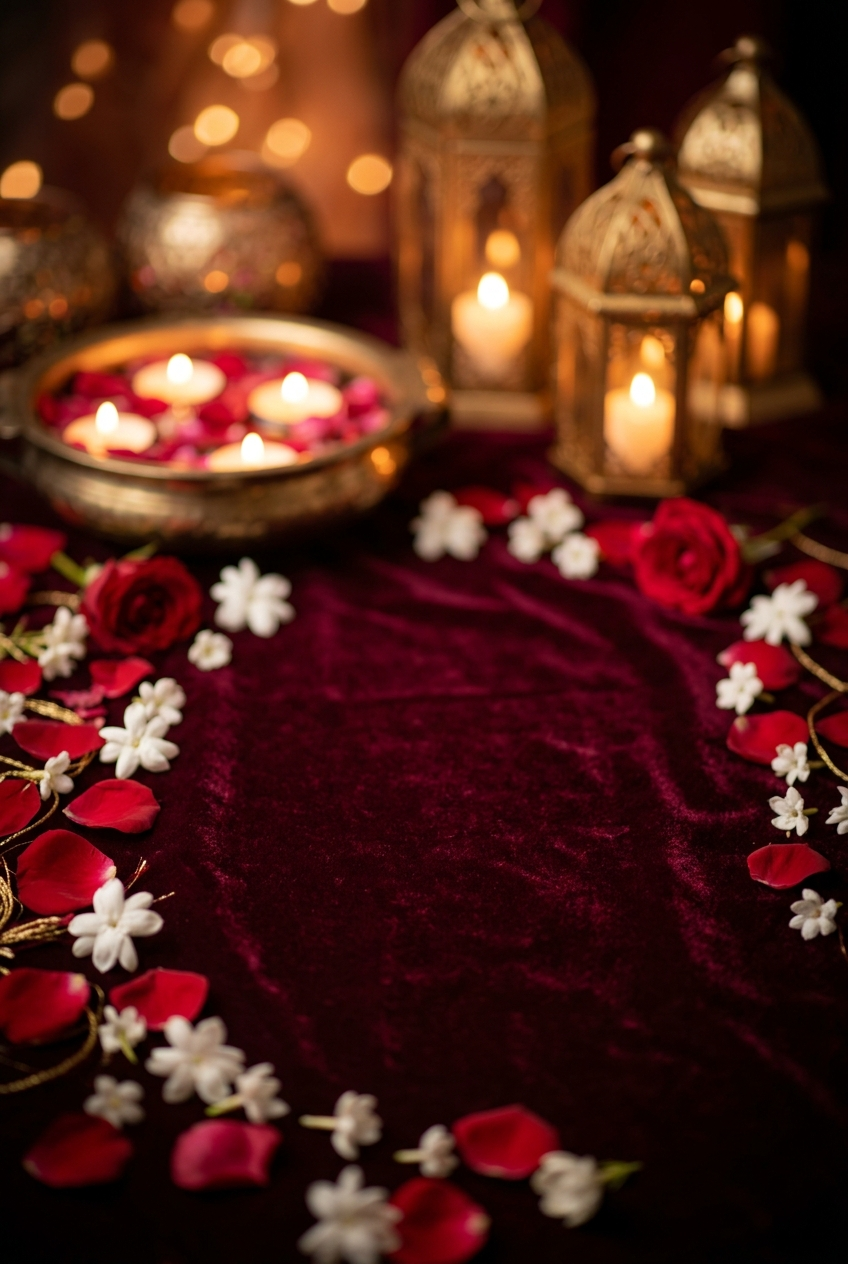
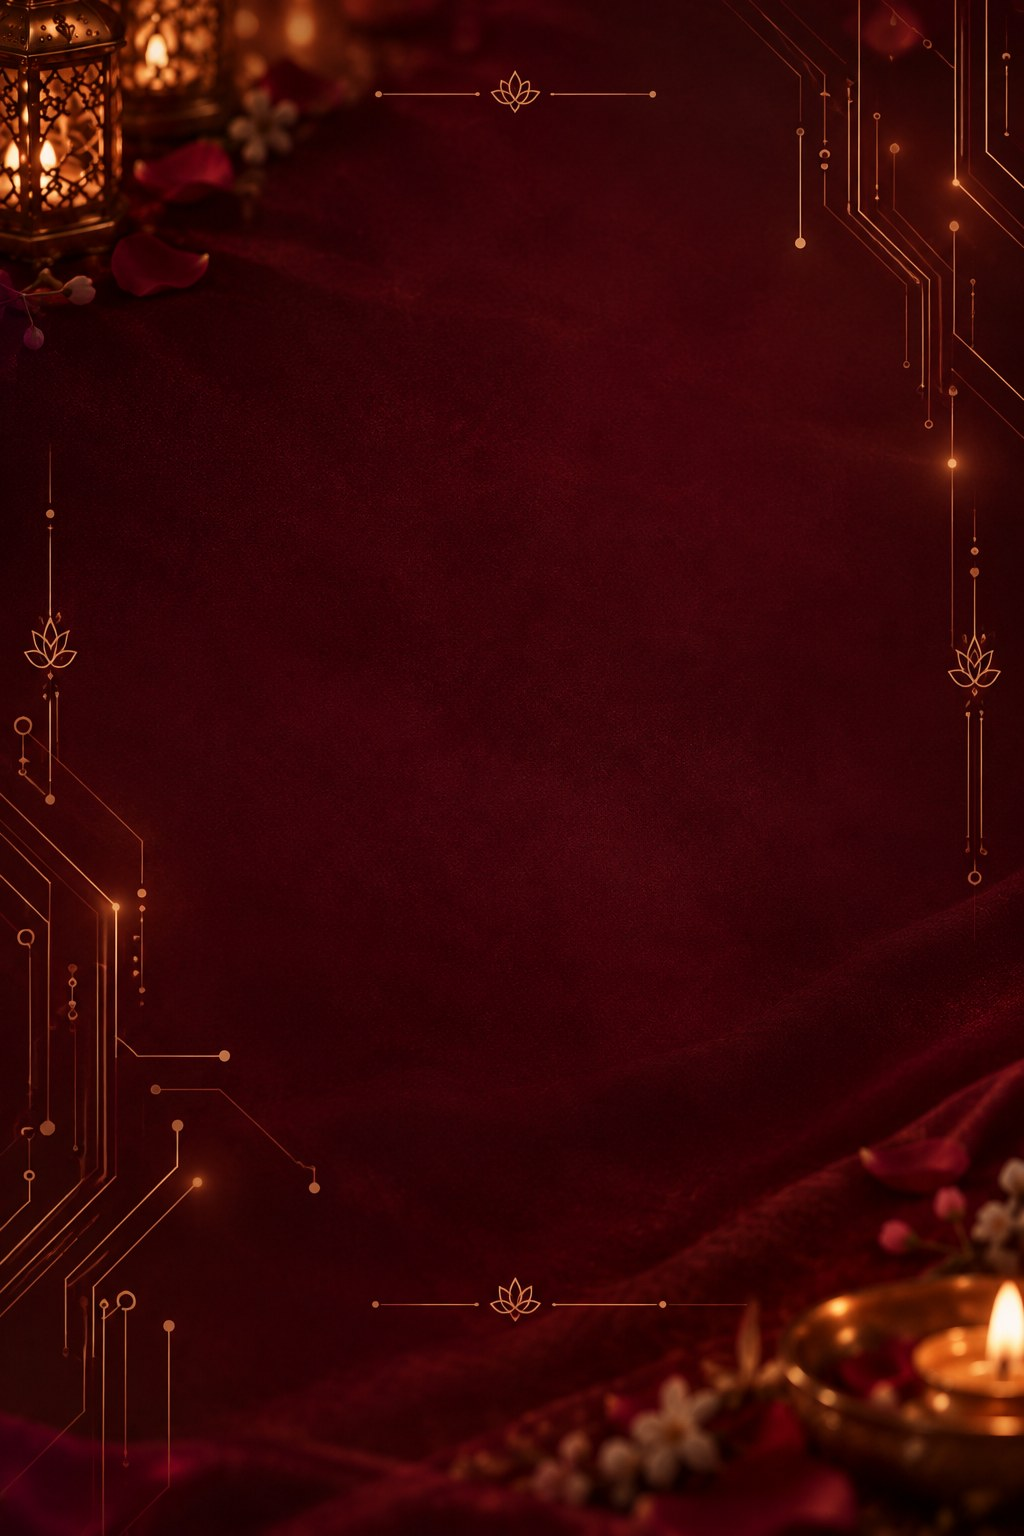
## Done (verified in real browser @390px) - **Page 1**: The background now uses your uploaded burgundy image as provided (lantern, diya, roses, corner gold-circuit fragments, lotus dividers). A **symmetric hexagon circuit frame** has been overlaid with Ganesha at top-centre, "Two Hearts One Journey"
### Next Action Items
- **Real Wedding Music**: Swap the placeholder track for your final instrumental once you upload it
- **Idle Shimmer**: Add a gentle shimmer effect to the gold circuit before tapping so the page feels "powered on"
- **Couple Monogram**: Weave a gold "S&V" monogram into the centre of the circuit heart
- **Signal Sound**: Add a soft rising "charge-up" tone as signals gather toward the title

I have tested these features to the best of my capabilities on a real browser. Please check and let me know if everything is functioning as expected or if you notice any issues that may require further investigation with comprehensive testing.

Potential improvement: Would you like me to add a gentle looping shimmer on the idle circuit so guests see a living, glowing board as soon as the page opens?

Emergent-Commit-Key: 00c04ac8af96177f793af560aca4b6e9966294a694e2767df4168c7af7c41bba

diff --git a/frontend/src/components/wedding/SignalBoard.jsx b/frontend/src/components/wedding/SignalBoard.jsx
@@ -1,40 +1,52 @@
 import React from "react";
 
 /*
- * Page 1 — flat antique-gold PCB that frames the invitation title.
- * When `live` is true, bright "signals" draw along every trace and gather
- * up toward the "Two Hearts One Journey" title (from below and above).
+ * Page 1 — symmetric antique-gold circuit frame that sits in the empty
+ * centre of the burgundy velvet background. On tap, bright "signals" draw
+ * along the feeder traces and gather UP to the "Two Hearts One Journey" title
+ * (from above and below).
  */
 
-// Feeder traces authored SOURCE -> TITLE so the draw animation travels toward the text.
-const LOWER = [
-  "M40 820 L40 600 L72 560 L72 470 L112 420 L132 362",
-  "M360 820 L360 600 L328 560 L328 470 L288 420 L268 362",
-  "M120 820 L120 630 L150 585 L150 470 L162 408 L166 362",
-  "M280 820 L280 630 L250 585 L250 470 L238 408 L234 362",
-  "M8 500 L60 500 L100 452 L140 400 L152 362",
-  "M392 500 L340 500 L300 452 L260 400 L248 362",
-  "M184 460 L184 410 L190 362",
-  "M216 460 L216 410 L210 362",
+// Animated feeders — authored source -> title so the draw travels toward the text.
+const FEEDERS = [
+  // top feeders (draw downward onto the upper bus, y=300)
+  "M200 100 L200 180 L184 300",
+  "M200 100 L200 180 L216 300",
+  "M165 118 L165 210 L148 240 L130 300",
+  "M235 118 L235 210 L252 240 L270 300",
+  "M126 138 L126 252 L108 300",
+  "M274 138 L274 252 L292 300",
+  // bottom feeders (draw upward onto the lower bus, y=560)
+  "M200 660 L200 620 L184 560",
+  "M200 660 L200 620 L216 560",
+  "M165 672 L165 612 L148 588 L130 560",
+  "M235 672 L235 612 L252 588 L270 560",
+  "M126 660 L126 600 L108 560",
+  "M274 660 L274 600 L292 560",
 ];
 
-const UPPER = [
-  "M70 40 L70 150 L108 200 L108 250 L150 300",
-  "M330 40 L330 150 L292 200 L292 250 L250 300",
-  "M160 46 L160 160 L184 210 L186 300",
-  "M240 46 L240 160 L216 210 L214 300",
+// Static hexagon frame + title bus bars.
+const FRAME = [
+  "M108 300 H292",
+  "M108 560 H292",
+  "M108 300 L58 352 L58 508 L108 560",
+  "M292 300 L342 352 L342 508 L292 560",
 ];
 
 const HEART =
-  "M200 540 C174 516 156 502 156 483 C156 470 167 461 179 461 C188 461 196 467 200 475 C204 467 212 461 221 461 C233 461 244 470 244 483 C244 502 226 516 200 540 Z";
+  "M200 512 C176 490 158 476 158 457 C158 445 169 436 181 436 C190 436 198 442 200 450 C202 442 210 436 219 436 C231 436 242 445 242 457 C242 476 224 490 200 512 Z";
 
 const PADS = [
-  [40, 818], [360, 818], [120, 818], [280, 818],
-  [8, 500], [392, 500],
-  [70, 42], [330, 42], [160, 48], [240, 48],
+  [200, 100], [165, 118], [235, 118], [126, 138], [274, 138],
+  [200, 660], [165, 672], [235, 672], [126, 660], [274, 660],
 ];
 
-const ALL = [...LOWER, ...UPPER];
+const NODES = [
+  [200, 300], [200, 560],
+  [108, 300], [292, 300], [108, 560], [292, 560],
+  [58, 352], [342, 352], [58, 508], [342, 508],
+  [58, 430], [342, 430],
+];
 
 export const SignalBoard = ({ live = false, className = "" }) => (
   <svg
@@ -44,13 +56,13 @@ export const SignalBoard = ({ live = false, className = "" }) => (
     aria-hidden="true"
   >
     <defs>
-      <linearGradient id="sb-gold" x1="0" y1="1" x2="0" y2="0">
+      <linearGradient id="sb-gold" x1="0" y1="0" x2="1" y2="1">
         <stop offset="0%" stopColor="#8a5a1f" />
         <stop offset="55%" stopColor="#c9923e" />
         <stop offset="100%" stopColor="#e9c678" />
       </linearGradient>
       <filter id="sb-glow" x="-60%" y="-60%" width="220%" height="220%">
-        <feGaussianBlur stdDeviation="2.4" result="b" />
+        <feGaussianBlur stdDeviation="2.2" result="b" />
         <feMerge>
           <feMergeNode in="b" />
           <feMergeNode in="SourceGraphic" />
@@ -58,49 +70,40 @@ export const SignalBoard = ({ live = false, className = "" }) => (
       </filter>
     </defs>
 
-    {/* dim base traces */}
-    <g
-      stroke="url(#sb-gold)"
-      strokeWidth="1.3"
-      fill="none"
-      opacity="0.5"
-      strokeLinecap="round"
-      strokeLinejoin="round"
-    >
-      {ALL.map((d, i) => (
+    {/* dim static frame */}
+    <g stroke="url(#sb-gold)" strokeWidth="1.3" fill="none" opacity="0.55" strokeLinecap="round" strokeLinejoin="round">
+      {FRAME.map((d, i) => (
+        <path key={`frame-${i}`} d={d} />
+      ))}
+    </g>
+
+    {/* dim base of the feeder traces */}
+    <g stroke="url(#sb-gold)" strokeWidth="1.1" fill="none" opacity="0.4" strokeLinecap="round" strokeLinejoin="round">
+      {FEEDERS.map((d, i) => (
         <path key={`base-${i}`} d={d} />
       ))}
-      <path d="M118 360 H282" />
-      <path d="M150 300 H250" />
     </g>
 
     {/* bright travelling signals that gather at the title */}
-    <g
-      stroke="#ffe9b8"
-      strokeWidth="2.3"
-      fill="none"
-      strokeLinecap="round"
-      strokeLinejoin="round"
-      filter="url(#sb-glow)"
-    >
-      {ALL.map((d, i) => (
+    <g stroke="#ffe9b8" strokeWidth="2.3" fill="none" strokeLinecap="round" strokeLinejoin="round" filter="url(#sb-glow)">
+      {FEEDERS.map((d, i) => (
         <path
           key={`pulse-${i}`}
           className="sb-pulse"
           d={d}
           pathLength="1"
-          style={{ animationDelay: `${(i % 8) * 70}ms` }}
+          style={{ animationDelay: `${(i % 6) * 80}ms` }}
         />
       ))}
     </g>
 
-    {/* title bus bars glow once signals arrive */}
-    <g stroke="#ffe3a6" strokeWidth="2.4" strokeLinecap="round" filter="url(#sb-glow)">
-      <path className="sb-bus" d="M118 360 H282" pathLength="1" />
-      <path className="sb-bus" d="M150 300 H250" pathLength="1" />
+    {/* bus bars glow once the signals arrive */}
+    <g stroke="#ffe3a6" strokeWidth="2.3" strokeLinecap="round" filter="url(#sb-glow)">
+      <path className="sb-bus" d="M108 300 H292" pathLength="1" />
+      <path className="sb-bus" d="M108 560 H292" pathLength="1" />
     </g>
 
-    {/* heart woven into the lower circuit */}
+    {/* heart woven into the lower frame */}
     <path
       className="sb-heart"
       d={HEART}
@@ -112,10 +115,17 @@ export const SignalBoard = ({ live = false, className = "" }) => (
       filter="url(#sb-glow)"
     />
 
+    {/* decorative nodes along the frame */}
+    <g fill="#e9c678" opacity="0.7">
+      {NODES.map(([cx, cy], i) => (
+        <circle key={`node-${i}`} cx={cx} cy={cy} r="2.6" />
+      ))}
+    </g>
+
     {/* connection pads at every signal source */}
     <g fill="#e9c678">
       {PADS.map(([cx, cy], i) => (
-        <circle key={`pad-${i}`} className="sb-pad" cx={cx} cy={cy} r="3" style={{ animationDelay: `${(i % 8) * 70}ms` }} />
+        <circle key={`pad-${i}`} className="sb-pad" cx={cx} cy={cy} r="3" style={{ animationDelay: `${(i % 6) * 80}ms` }} />
       ))}
     </g>
   </svg>

diff --git a/frontend/src/components/wedding/wedding.css b/frontend/src/components/wedding/wedding.css
@@ -16,7 +16,7 @@
 }
 
 .wc-page1 { position: absolute; inset: 0; background-size: cover; background-position: center; display: flex; align-items: center; justify-content: center; transform-origin: center 54%; will-change: transform, opacity, filter; }
-.wc-page1-vignette { position: absolute; inset: 0; pointer-events: none; background: radial-gradient(60% 45% at 50% 52%, rgba(59,7,16,0) 0%, rgba(42,5,12,0.35) 70%, rgba(30,3,9,0.7) 100%), radial-gradient(120% 90% at 50% 120%, rgba(232,154,58,0.14), transparent 55%); }
+.wc-page1-vignette { position: absolute; inset: 0; pointer-events: none; background: radial-gradient(70% 55% at 50% 50%, rgba(42,5,12,0) 55%, rgba(30,3,9,0.28) 100%); }
 .wc-trace-layer { position: absolute; inset: 0; width: 100%; height: 100%; pointer-events: none; }
 .wc-chip-stage { position: relative; z-index: 3; display: flex; flex-direction: column; align-items: center; transform: translateY(2vh); }
 
@@ -93,8 +93,9 @@
 .wc-tap-text { font-family: var(--font-serif); font-size: clamp(1.1rem,4.5vw,1.4rem); letter-spacing: 0.14em; color: var(--ivory); text-shadow: 0 0 10px rgba(232,154,58,0.4); margin: 4px 0; animation: tap-pulse 2.6s ease-in-out infinite; }
 @keyframes tap-pulse { 0%,100% { opacity: 0.78; } 50% { opacity: 1; } }
 
-/* ── Page 1 — flat signal board ─────────────────────────────── */
-.sb-stage { position: relative; height: 100vh; height: 100dvh; width: min(100vw, calc(100dvh * 0.4878)); margin: 0 auto; z-index: 3; }
+/* ── Page 1 — symmetric signal board over the velvet background ─── */
+.wc-page1 { background-color: #4a0a16; }
+.sb-stage { position: absolute; left: 50%; top: 50%; transform: translate(-50%, -50%); width: min(100vw, calc(100dvh * 0.4878)); height: min(100dvh, calc(100vw * 2.05)); z-index: 3; }
 .sb-layer { position: absolute; inset: 0; width: 100%; height: 100%; }
 
 .sb-pulse { stroke-dasharray: 1; stroke-dashoffset: 1; opacity: 0; }
@@ -102,24 +103,25 @@
 @keyframes sb-draw { 0% { stroke-dashoffset: 1; opacity: 0; } 8% { opacity: 1; } 100% { stroke-dashoffset: 0; opacity: 1; } }
 
 .sb-bus { stroke-dasharray: 1; stroke-dashoffset: 1; opacity: 0; }
-.sb-svg.is-live .sb-bus { animation: sb-bus-light 0.7s ease forwards 1.0s; }
+.sb-svg.is-live .sb-bus { animation: sb-bus-light 0.7s ease forwards 0.95s; }
 @keyframes sb-bus-light { to { stroke-dashoffset: 0; opacity: 1; } }
 
-.sb-pad { opacity: 0.35; }
+.sb-pad { opacity: 0.4; }
 .sb-svg.is-live .sb-pad { animation: sb-pad-glow 0.6s ease forwards; }
 @keyframes sb-pad-glow { to { opacity: 1; filter: drop-shadow(0 0 5px rgba(233,198,120,0.95)); } }
 
-.sb-heart { opacity: 0.55; transform-box: fill-box; transform-origin: center; }
-.sb-svg.is-live .sb-heart { animation: sb-heart-in 0.9s ease forwards 0.9s, sb-heart-beat 2.4s ease-in-out infinite 1.9s; }
+.sb-heart { opacity: 0.6; transform-box: fill-box; transform-origin: center; }
+.sb-svg.is-live .sb-heart { animation: sb-heart-in 0.9s ease forwards 0.85s, sb-heart-beat 2.4s ease-in-out infinite 1.8s; }
 @keyframes sb-heart-in { to { opacity: 1; } }
 @keyframes sb-heart-beat { 0%, 100% { filter: drop-shadow(0 0 4px rgba(233,198,120,0.5)); } 50% { filter: drop-shadow(0 0 12px rgba(232,154,58,1)); } }
 
-.sb-title { position: absolute; left: 0; right: 0; top: 40%; transform: translateY(-50%); display: flex; flex-direction: column; align-items: center; text-align: center; pointer-events: none; z-index: 4; }
-.sb-ganesha { opacity: 0.85; margin-bottom: 8px; filter: drop-shadow(0 0 5px rgba(225,185,108,0.45)); }
-.sb-title-text { font-family: var(--font-serif); font-weight: 600; letter-spacing: 0.04em; line-height: 1.06; display: flex; flex-direction: column; font-size: clamp(1.9rem, 9vw, 3rem); color: var(--gold-champagne); text-shadow: 0 1px 0 rgba(0,0,0,0.55), 0 0 14px rgba(225,185,108,0.35); transition: text-shadow 0.9s ease; }
-.sb-title.is-live .sb-title-text { text-shadow: 0 1px 0 rgba(0,0,0,0.55), 0 0 26px rgba(232,154,58,0.85), 0 0 44px rgba(225,185,108,0.5); }
+.sb-ganesha { position: absolute; left: 50%; top: 34%; transform: translate(-50%, -50%); z-index: 4; opacity: 0.9; filter: drop-shadow(0 0 6px rgba(225,185,108,0.5)); pointer-events: none; }
 
-.sb-tap { position: absolute; left: 0; right: 0; top: 73%; display: flex; flex-direction: column; align-items: center; gap: 2px; background: transparent; border: 0; cursor: pointer; z-index: 4; -webkit-tap-highlight-color: transparent; }
+.sb-title { position: absolute; left: 0; right: 0; top: 45%; transform: translateY(-50%); display: flex; flex-direction: column; align-items: center; text-align: center; pointer-events: none; z-index: 4; }
+.sb-title-text { font-family: var(--font-serif); font-weight: 600; letter-spacing: 0.04em; line-height: 1.08; display: flex; flex-direction: column; font-size: clamp(1.7rem, 8vw, 2.7rem); color: var(--gold-champagne); text-shadow: 0 1px 0 rgba(0,0,0,0.55), 0 0 14px rgba(225,185,108,0.4); transition: text-shadow 0.9s ease; }
+.sb-title.is-live .sb-title-text { text-shadow: 0 1px 0 rgba(0,0,0,0.55), 0 0 26px rgba(232,154,58,0.9), 0 0 48px rgba(225,185,108,0.55); }
+
+.sb-tap { position: absolute; left: 0; right: 0; top: 87%; display: flex; flex-direction: column; align-items: center; gap: 2px; background: transparent; border: 0; cursor: pointer; z-index: 4; -webkit-tap-highlight-color: transparent; }
 .sb-tap-divider { opacity: 0.7; }
 .sb-tap-text { font-family: var(--font-serif); font-size: clamp(1rem, 4.4vw, 1.3rem); letter-spacing: 0.16em; color: var(--ivory); text-shadow: 0 0 10px rgba(232,154,58,0.45); margin: 5px 0; animation: tap-pulse 2.6s ease-in-out infinite; }
 

diff --git a/frontend/src/components/EndingScene.js b/frontend/src/components/EndingScene.js
@@ -45,11 +45,13 @@ const EndingScene = () => (
 
       <FadeUp mount>
         <h2
-          className="font-script text-6xl sm:text-7xl md:text-8xl leading-[0.95]"
+          className="font-script text-6xl sm:text-7xl md:text-8xl leading-[1.15] pt-3 flex flex-col items-center"
           style={goldText}
           data-testid="ending-names"
         >
-          Sanidhya<br />&amp;Vasudha
+          <span>Sanidhya</span>
+          <span className="text-5xl sm:text-6xl md:text-7xl my-1">&amp;</span>
+          <span>Vasudha</span>
         </h2>
       </FadeUp>
 

diff --git a/frontend/src/components/WeddingIntro.js b/frontend/src/components/WeddingIntro.js
@@ -56,8 +56,9 @@ export default function WeddingIntro({ onReveal, onComplete }) {
       <div className="sb-stage">
         <SignalBoard live={live} className="sb-layer" />
 
+        <GaneshaMark size={38} className="sb-ganesha" />
+
         <div className={`sb-title ${live ? "is-live" : ""}`} data-testid="page1-title">
-          <GaneshaMark size={40} className="sb-ganesha" />
           <h1 className="sb-title-text font-cinzel">
             <span>Two Hearts</span>
             <span>One Journey</span>
